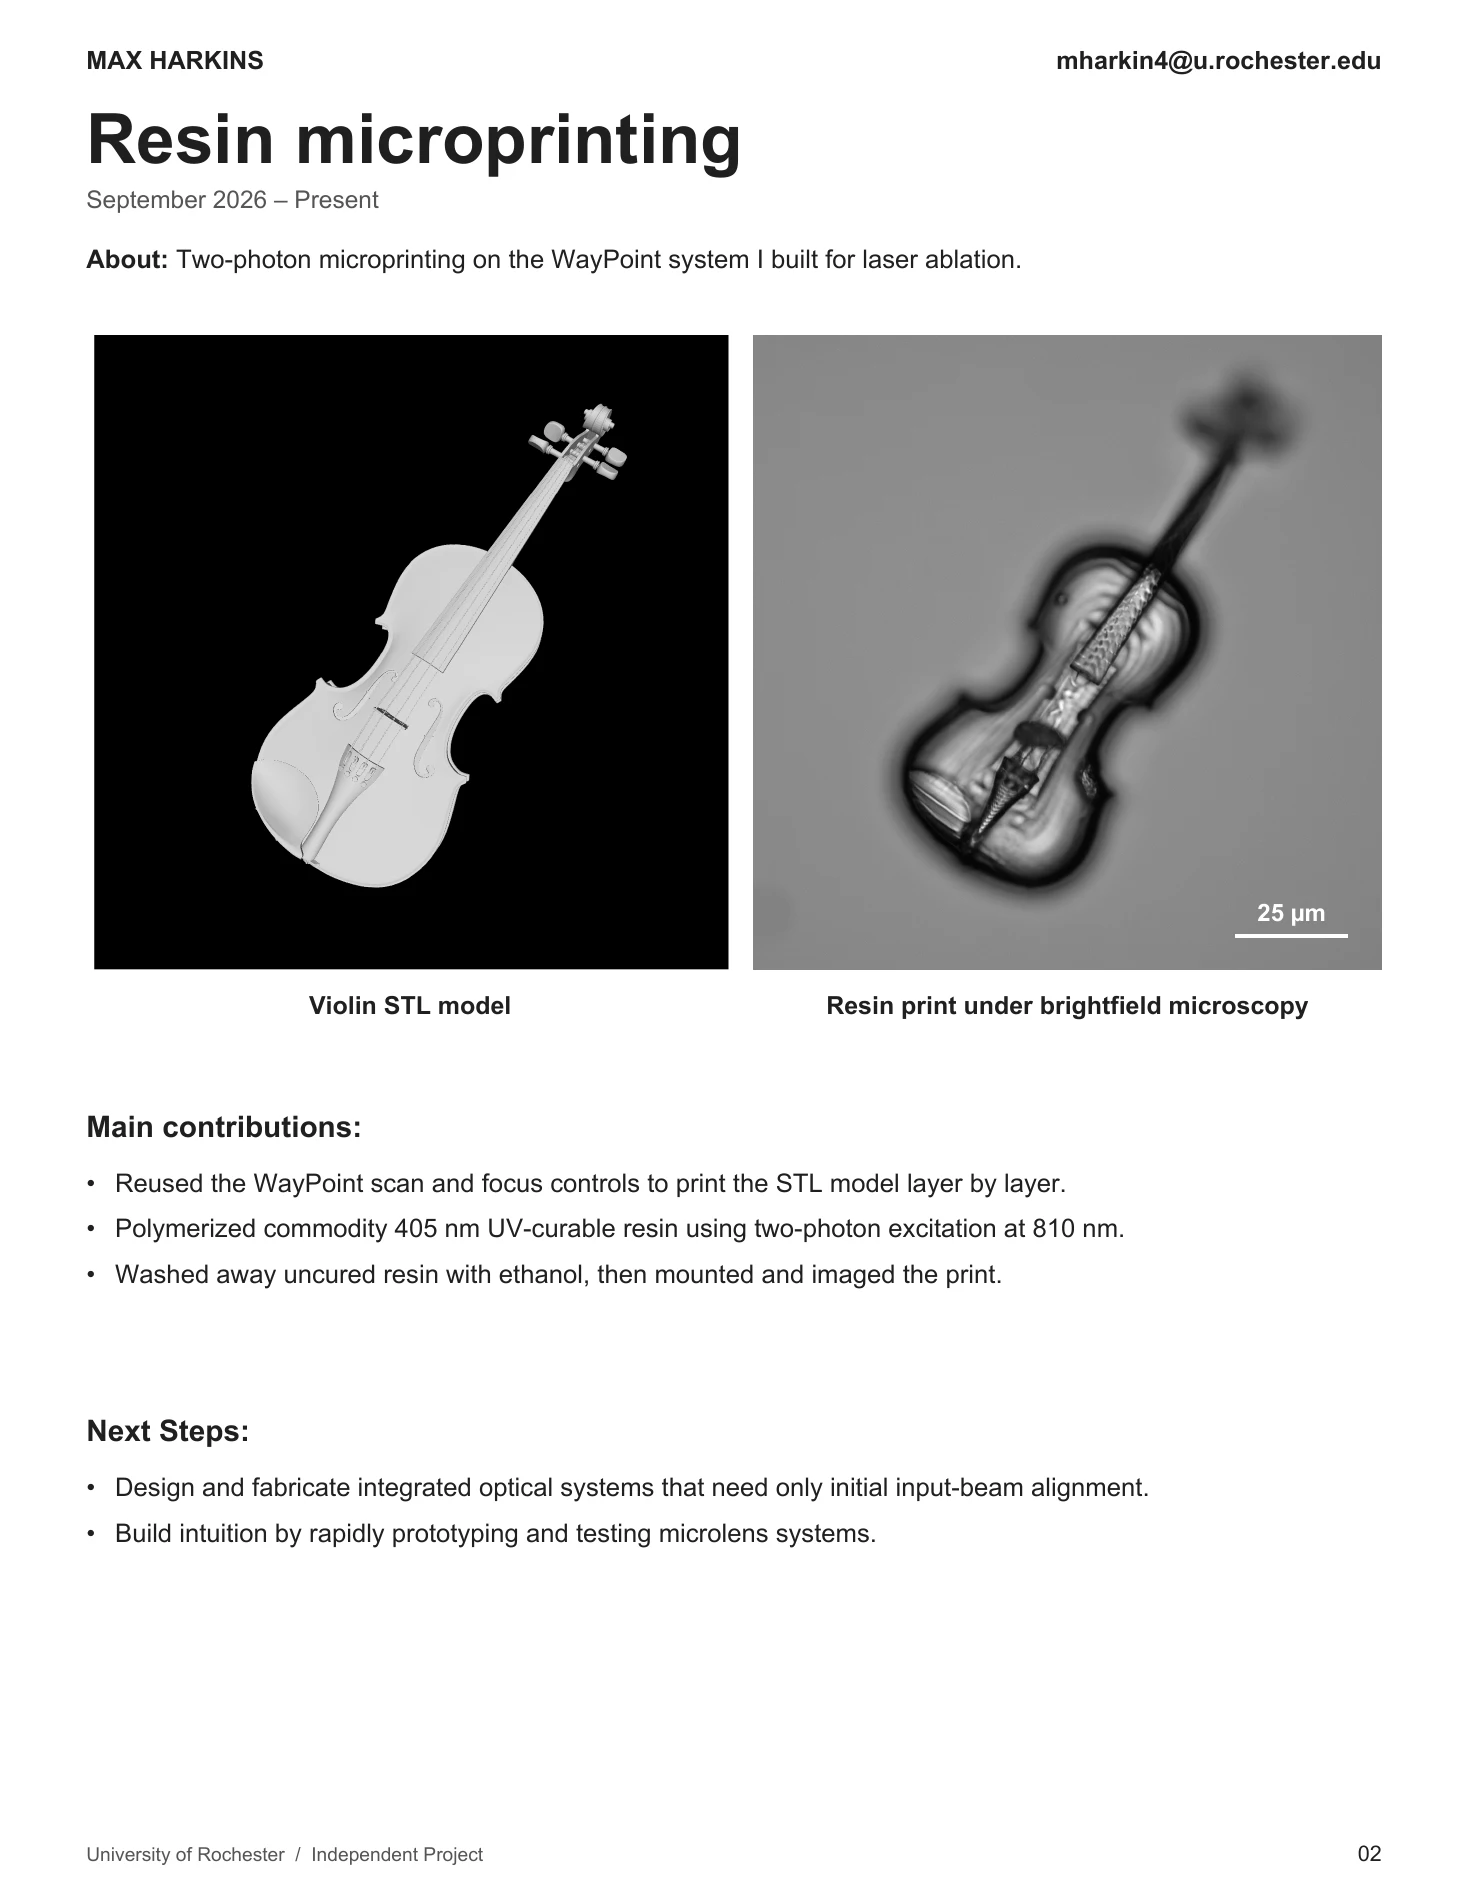
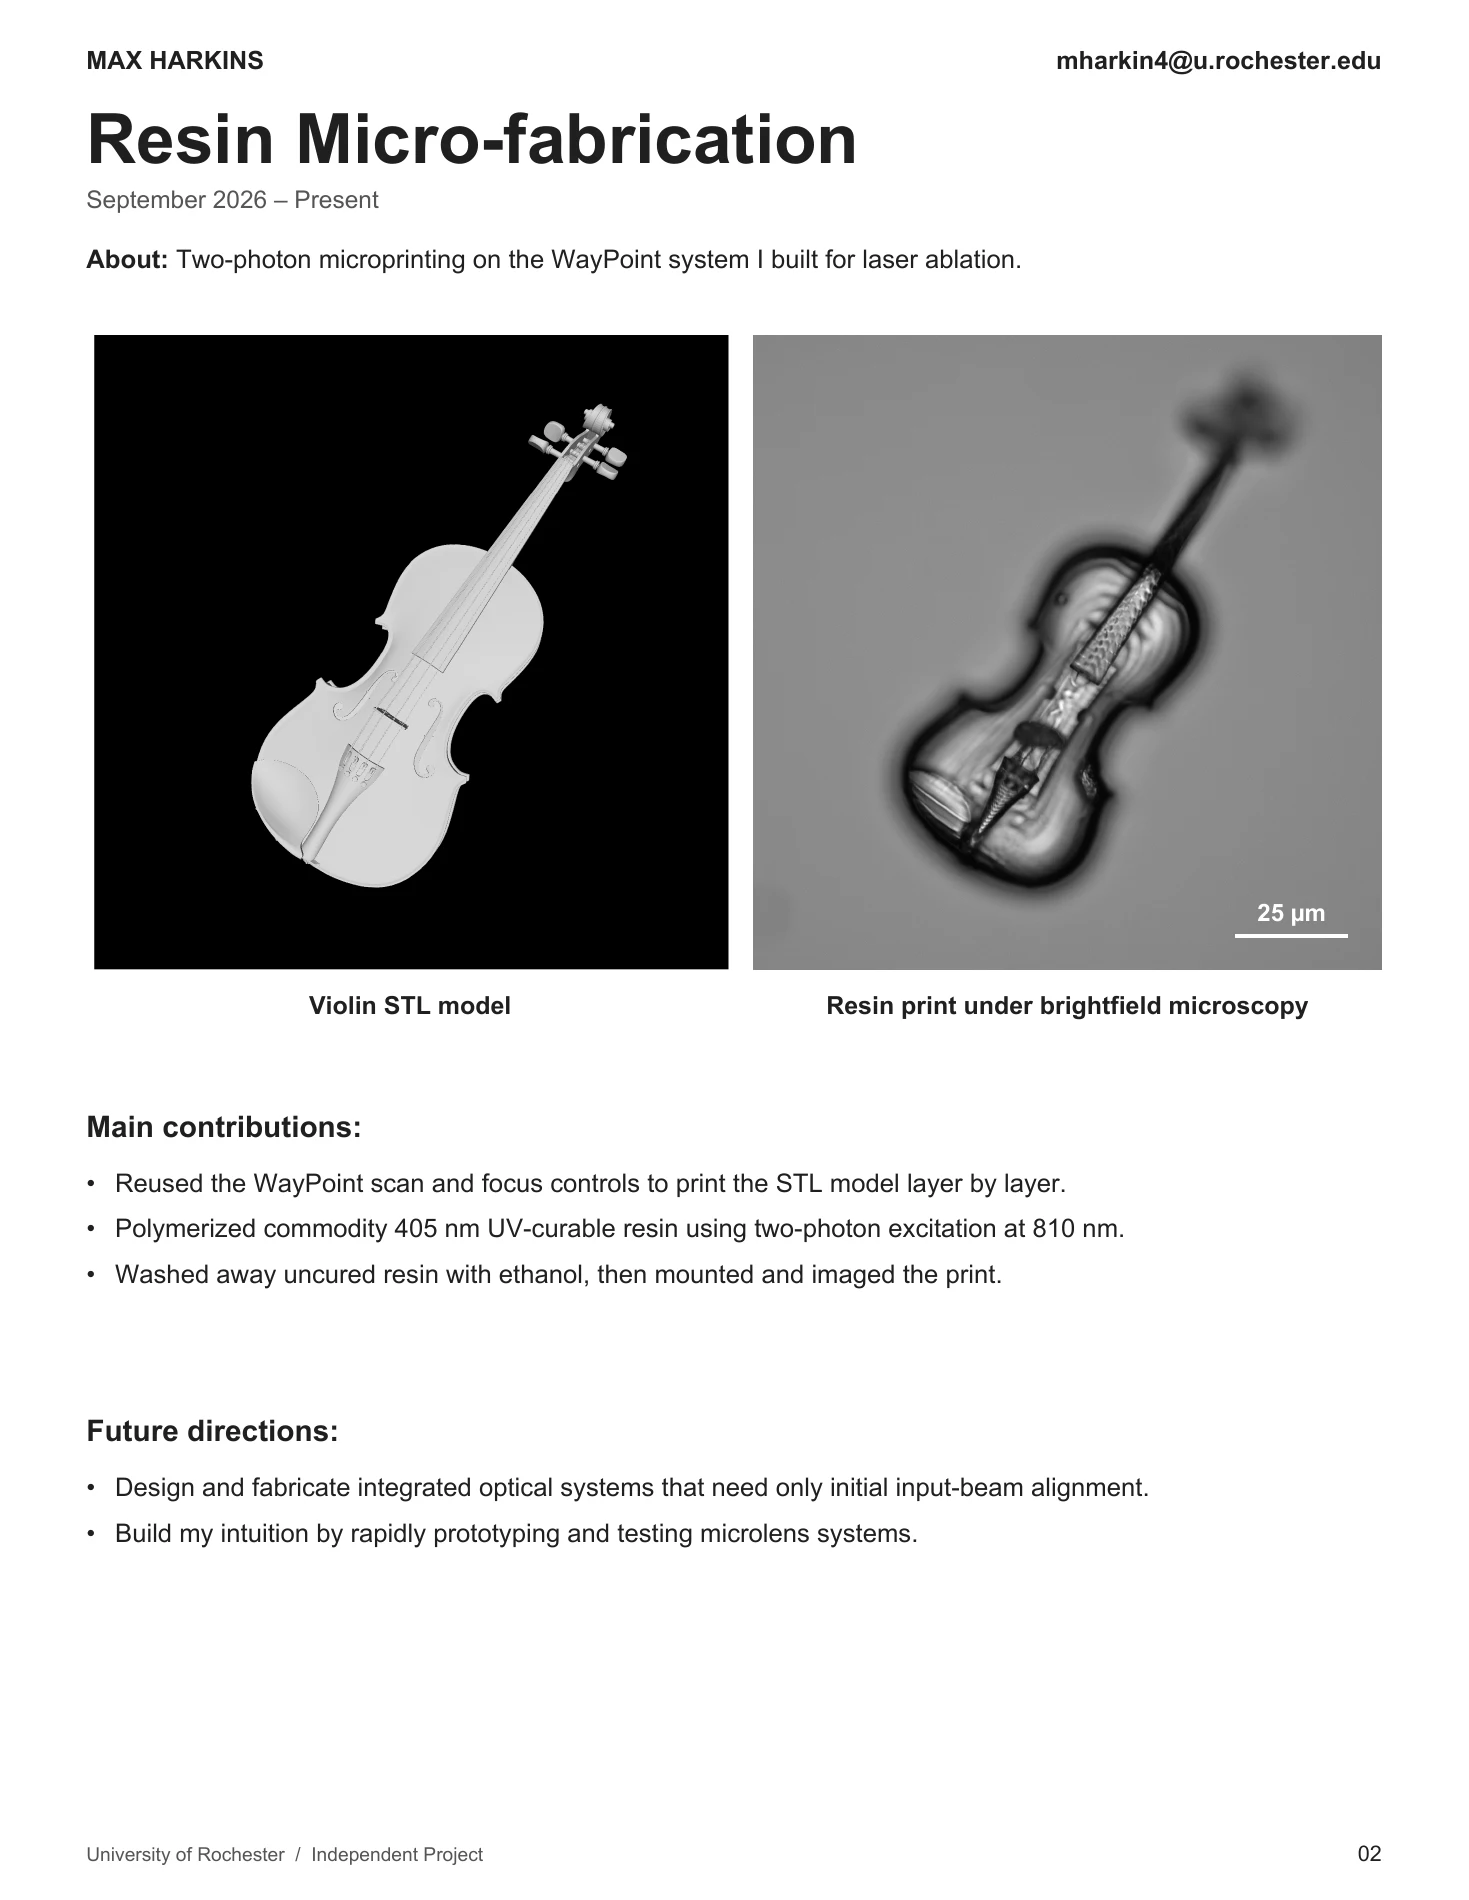
Revise portfolio project descriptions

Changed region(s): [[0.1838, 0.0621, 0.582, 0.0932], [0.0613, 0.7453, 0.2144, 0.7763], [0.2757, 0.8074, 0.3676, 0.8384]]

diff --git a/docs/portfolio.html b/docs/portfolio.html
@@ -20,14 +20,14 @@
   <div class="page">
     <main class="doc-head rise r1">
       <h1>Portfolio</h1>
-      <p class="sub">Selected projects in laser instrumentation, resin microprinting, and EMG hand tracking.</p>
+      <p class="sub">Selected projects in laser instrumentation, resin micro-fabrication, and EMG hand tracking.</p>
       <div class="doc-actions">
         <a class="btn primary" href="assets/max-harkins-portfolio.pdf" target="_blank" rel="noopener">View portfolio PDF</a>
         <a class="btn ghost" href="assets/max-harkins-portfolio.pdf" download>Download PDF</a>
       </div>
       <div class="portfolio-pages" aria-label="Portfolio pages">
         <img src="assets/portfolio-page-1.webp" width="1469" height="1900" alt="Page 1. WayPoint laser ablation system, scan path generation, and fabricated collagen structures.">
-        <img src="assets/portfolio-page-2.webp" width="1469" height="1900" loading="lazy" alt="Page 2. Resin microprinting, with the violin STL model and a microscope image of the print.">
+        <img src="assets/portfolio-page-2.webp" width="1469" height="1900" loading="lazy" alt="Page 2. Resin Micro-fabrication, with the violin STL model and a microscope image of the print.">
         <img src="assets/portfolio-page-3.webp" width="1469" height="1900" loading="lazy" alt="Page 3. Meta Neural Band EMG, Sedna, and the hand kinematics model.">
       </div>
     </main>
